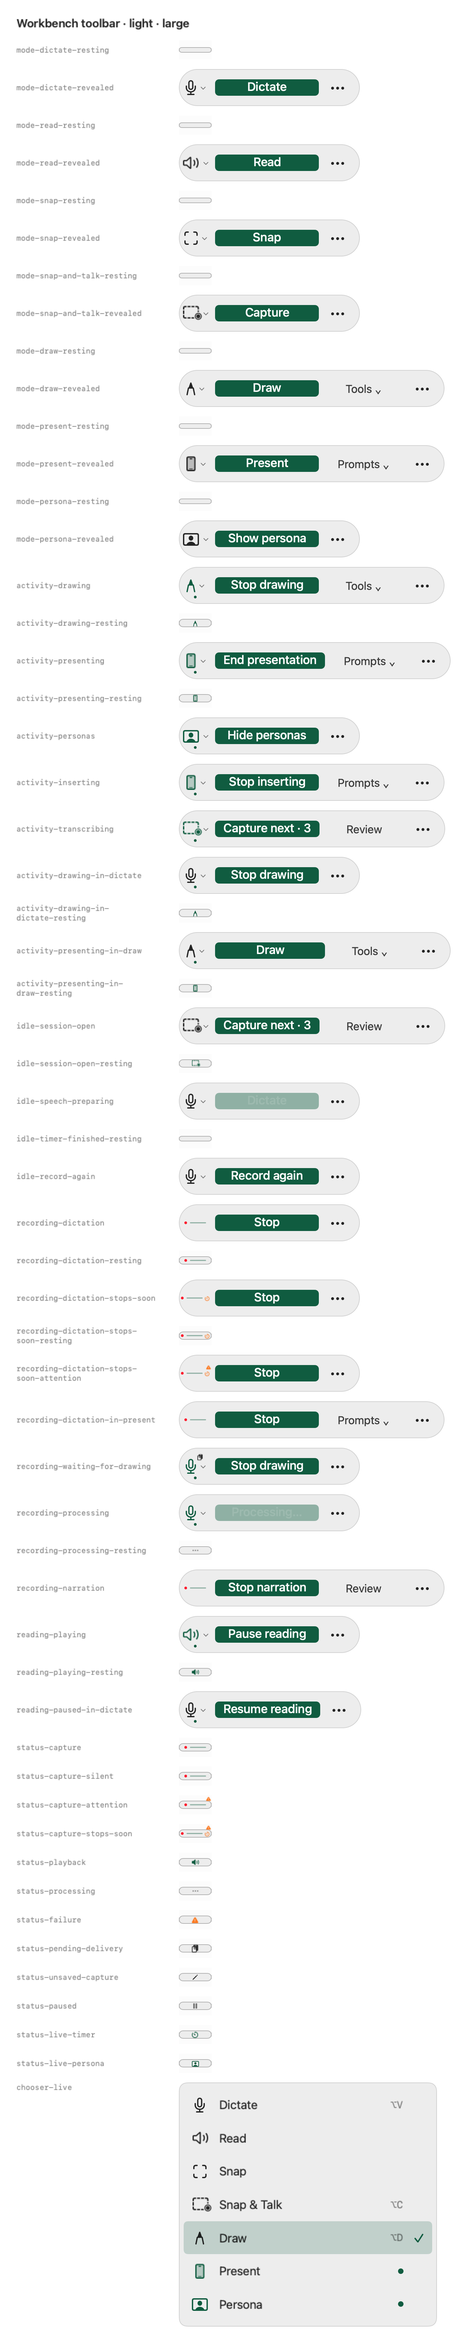
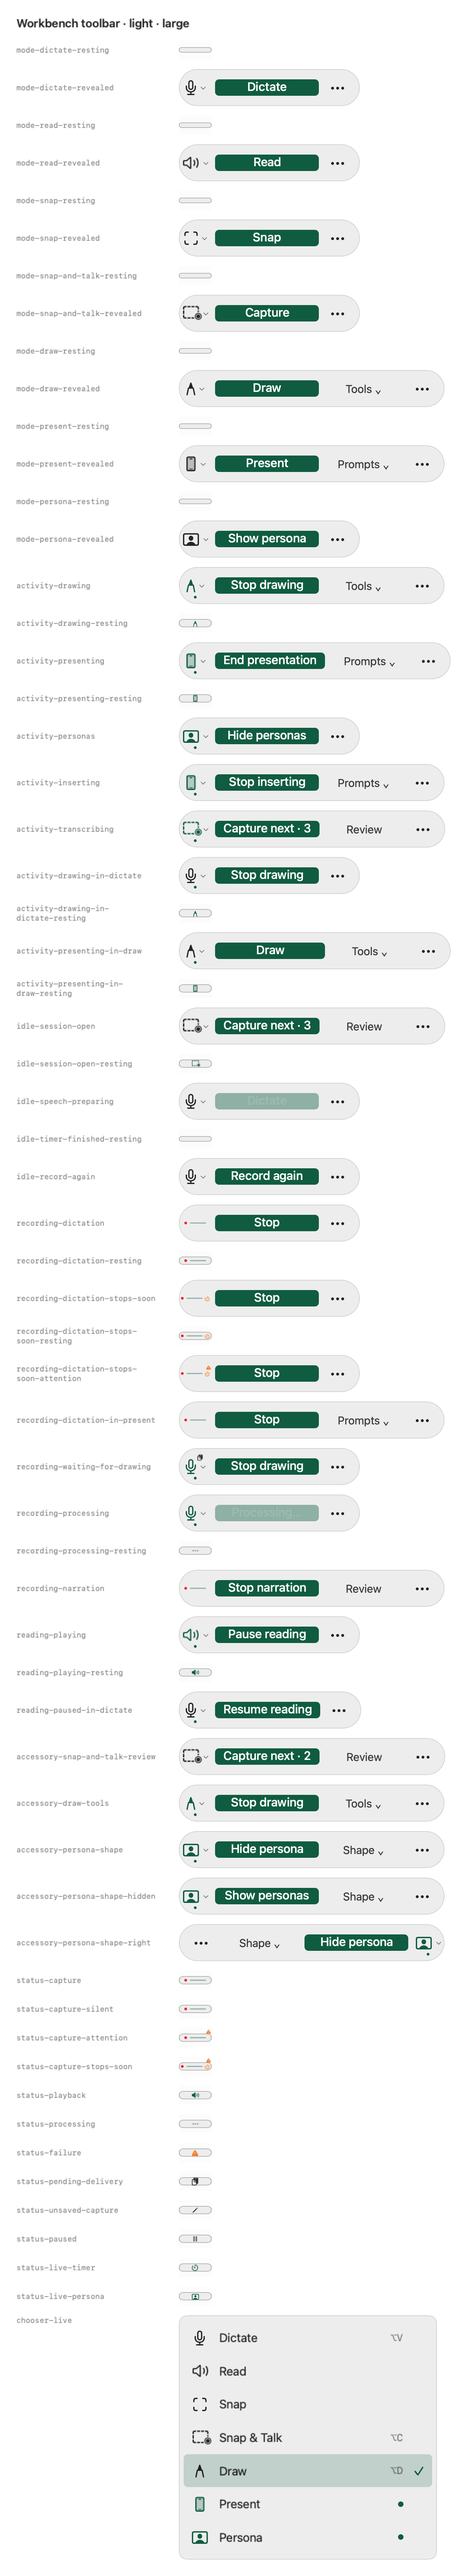
Show each tool's accessory in the committed overview sheets
The overview sheets are a PR's image diff, and they showed Tools, Prompts and Review only
where a mode or activity row happens to carry them, and Persona's Shape nowhere. They now
include the accessory fixtures: Review, Tools, and Shape shown, hidden and at a right-hand
dock. The gallery's coverage notes name the accessories in place of the Prompts button.

diff --git a/Sources/ToolbarGalleryRenderer/main.swift b/Sources/ToolbarGalleryRenderer/main.swift
@@ -41,7 +41,7 @@ import StageKit
                 }
                 // Compact overview is committed for ordinary PR image diffs.
                 let samples = ToolbarGallery.modes + ToolbarGallery.activity + ToolbarGallery.idle + ToolbarGallery.recording
-                    + ToolbarGallery.statuses
+                    + ToolbarGallery.accessories + ToolbarGallery.statuses
                 let overview = VStack(alignment: .leading, spacing: 14) {
                     Text("Workbench toolbar · \(theme) · \(scaleName)").font(.title2.weight(.semibold))
                     ForEach(samples, id: \.name) { state in

diff --git a/docs/floating-toolbar.md b/docs/floating-toolbar.md
@@ -504,11 +504,12 @@ red, distinct from the voice colour.
 
 `ToolbarGallery.states` supplies both tiers at every anchor, every mode with its
 key, active work in its own mode and in another (Dictate selected, Draw busy),
-capture counts, active presentation/personas, prompt insertion and every compact
-status; `ToolbarGallery.choosers` supplies the chooser with and without live
-work. The renderer uses the production `ToolbarRow` and `ToolbarChooserView`,
-including the compact mark, the launcher and the Prompts button, in both themes
-and standard/larger type.
+capture counts, active presentation/personas, prompt insertion, each tool's
+accessory (Shape also hidden and at a right-hand dock) and every compact status;
+`ToolbarGallery.choosers` supplies the chooser with and without live work. The
+renderer uses the production `ToolbarRow` and `ToolbarChooserView`, including the
+compact mark, the launcher and the accessory, in both themes and standard/larger
+type.
 
 Core transition tests, native layout tests and rendered fixtures establish only
 the behavior they exercise. They do not prove native pointer behavior. Before
@@ -535,8 +536,9 @@ swift run --disable-sandbox ToolbarGalleryRenderer test-results/toolbar
 ```
 
 The gallery generates individual fixtures and four overview sheets. It covers
-both tiers at every anchor, each mode, active work in and out of its mode, every
-compact status and the chooser, light/dark appearance and standard/larger type. `ToolbarKitTests` checks intrinsic
+both tiers at every anchor, each mode, active work in and out of its mode, each
+tool's accessory, every compact status and the chooser, light/dark appearance and
+standard/larger type. `ToolbarKitTests` checks intrinsic
 sizes and longer labels; the committed overview sheets in
 [assets/floating-toolbar](assets/floating-toolbar) provide PR image diffs. CI
 retains the full gallery as an artifact. These are real native views, not HTML
